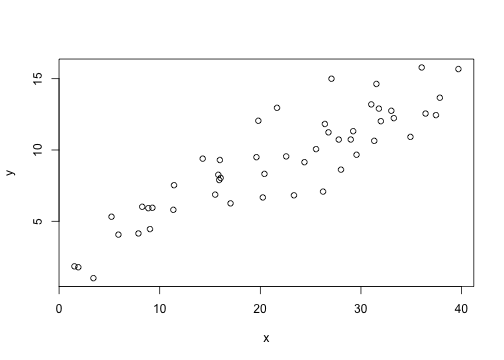
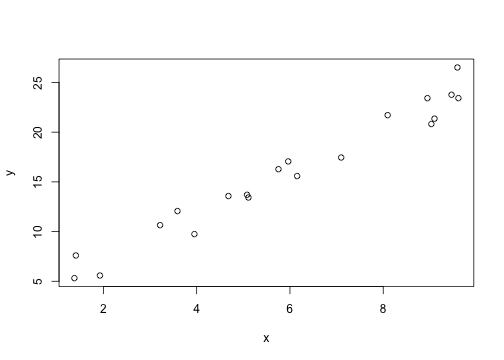
Tweak TMB post and publish it

diff --git a/_posts/2014-10-17-tmb.md b/_posts/2014-10-17-tmb.md
@@ -1,13 +1,13 @@
 ---
 layout: post
 title: The TMB R package
-subtitle: Life beyond ADMB
-published: false
+subtitle: Life beyond ADMB?
+published: true
 ---
 
-I'd heard whispers of this new R package [TMB](https://github.com/kaskr/adcomp) and finally spent some time playing with it in the last few days. It's incredible — fast like ADMB (faster?), has built-in parallel functionality, has other advanced [statistical niceties](https://github.com/kaskr/adcomp/wiki), and it's built around R. What more could you ask for? (Well better documenation and the option to switch on Bayesian MCMC like you can in ADMB would be nice.)
+I'd heard whispers of this new R package [TMB](https://github.com/kaskr/adcomp) and finally spent some time playing with it in the last few days. It's incredible — fast like ADMB (faster?), has built-in parallel functionality, has other advanced [statistical niceties](https://github.com/kaskr/adcomp/wiki), and it's built around R. What more could you ask for? (Well better documenation and the option to switch on Bayesian MCMC like you can in ADMB would be nice.) This post just represents some of my initial steps as I learned and played with the package.
 
-The basic idea is to write a C++ template file and then compile and run it with some R functions. If you've used ADMB then the format will look similar. If you haven't, it's not too hard to pick up. It helps to [know a bit about C++](http://adv-r.had.co.nz/Rcpp.html), but for the most part it shouldn't be that hard for anyone familiar with R to pick it up.
+The basic idea with TMB is to write a C++ template file and then compile and run it with some R functions. If you've used ADMB then the format will look similar. If you haven't, it's not too hard to pick up. It helps to [know a bit about C++](http://adv-r.had.co.nz/Rcpp.html), but for the most part it shouldn't be that hard for anyone familiar with R to pick it up.
 
 The steps to running a TMB model are:
 
@@ -28,9 +28,10 @@ The steps to running a TMB model are:
 6. Extract the estimates and standard errors from the model fit with 
    `TMB::sdreport()` and `TMB::summary.sdreport()`.
    
-You can install the TMB package from GitHub:
+You can install the TMB package from GitHub. You'll need a C++ compiler installed. If you're on Windows then you'll also need Rtools. See specific instructions on the [TMB GitHub page](https://github.com/kaskr/adcomp).
 
-```{r, eval=FALSE}
+
+```r
 # install.packages("devtools") # if needed
 devtools::install_github("kaskr/adcomp", subdir = "TMB")
 ```
@@ -43,7 +44,8 @@ Let's start with a really simple linear regression model.
 
 We'll start by writing the TMB template file. Here, I've written it as inline R code that I then `write()` to a `.cpp` file. I have only done this so the code shows up here.
 
-```{r tmb-regression}
+
+```r
 tmb_model <- "
 // linear regression
 #include <TMB.hpp>
@@ -79,7 +81,8 @@ write(tmb_model, file = "regression.cpp")
 
 We'll load the model template:
 
-```{r load, message=FALSE, results='hide'}
+
+```r
 library(TMB)
 compile("regression.cpp")
 dyn.load(dynlib("regression"))
@@ -87,16 +90,20 @@ dyn.load(dynlib("regression"))
 
 And simulate some data:
 
-```{r tmb1, fig.height=5}
-set.seed(1)
-x <- runif(50, 1, 40)
-y <- rnorm(50, mean = 2.5 + 0.3 * x, sd = exp(0.6))
+
+```r
+set.seed(123)
+x <- runif(20, 1, 10)
+y <- rnorm(20, mean = 1.8 + 2.4 * x, sd = exp(0.3))
 plot(x, y)
 ```
 
+![plot of chunk tmb1](/knitr-figs/tmb1.png) 
+
 Then we'll fit the model:
 
-```{r, message=FALSE, results='hide', warning=FALSE}
+
+```r
 obj <- MakeADFun(
   data = list(x = x, y = y), 
   parameters = list(a = 0, b = 0, log_sigma = 0),
@@ -105,16 +112,37 @@ opt <- do.call("optim", obj)
 rep <- sdreport(obj)
 ```
 
-We can check the estimates against the true values above (`a = 2.5, b = 0.3, log_sigma = 0.6`):
+We can check the estimates against the true values above (`a = 1.8, b = 2.4, log_sigma = 0.3`):
 
-```{r}
+
+```r
 rep
 ```
 
-Which is exactly the same as we'd get from `stats::lm()`:
+```
+#           Estimate Std. Error
+# a           2.8291    0.64964
+# b           2.2028    0.09901
+# log_sigma   0.1969    0.15811
+# 
+# Maximum gradient component: 2.797e-06
+```
 
-```{r lm}
+Which is about the same as we'd get from `stats::lm()`:
+
+
+```r
 arm::display(lm(y ~ x))
+```
+
+```
+# lm(formula = y ~ x)
+#             coef.est coef.se
+# (Intercept) 2.83     0.68   
+# x           2.20     0.10   
+# ---
+# n = 20, k = 2
+# residual sd = 1.28, R-Squared = 0.96
 ```
 
 ## Gompertz state space model
@@ -131,7 +159,8 @@ y\_t &amp;\sim \mathrm{Normal}(U\_t, \sigma^2\_\mathrm{obs}),
 where \\(y\_t\\) is the observed \\(\ln\\) abundance (\\(N\\)) at time \\(t\\). The model is density independent if \\(b = 1\\), maximally density dependent if \\(b = 0\\), and inversely density dependence if \\(b < 0\\). The parameter \\(a\\) represents the expected ln abundance at the next time step when \\(y\_t = 0\\). The process noise is modelled as a normal distribution with mean of \\(0\\), and a standard deviation of \\(\sigma\_\mathrm{proc}\\). \\(U\\) represents the unobserved state vector, and \\(\sigma\_\mathrm{obs}\\) represents the standard deviation of observation error (on a log scale).
 
 The TMB model for this state-space Gompertz model is:
-```{r tmb-model}
+
+```r
 tmb_model <- "
 // State-space Gompertz model
 #include <TMB.hpp>
@@ -178,14 +207,16 @@ write(tmb_model, file = "gompertztmb.cpp")
 
 We'll compile the model:
 
-```{r compile, message=FALSE, results='hide'}
+
+```r
 compile("gompertztmb.cpp")
 dyn.load(dynlib("gompertztmb"))
 ```
 
 And write a function that simulates some data, fits the model, and plots the estimates:
 
-```{r fitfunction}
+
+```r
 sim_gomp <- function(N = 100, seed = 123, sigma_obs = 0.2,
   sigma_proc = 0.2, a = 1.4, b = 0.7, y1 = 4) {
   
@@ -255,20 +286,29 @@ sim_gomp <- function(N = 100, seed = 123, sigma_obs = 0.2,
 
 One good test that you've coded a model correctly is to throw a boat-load of data at it and make sure it comes back with unbiased parameter estimates. In the following plots, the first panel shows the coefficient estimates ("fixed effects") +/- two standard errors. The red dots are our estimates and the shaded grey dots are the true values. In the lower panels, the red lines are our estimated states, the black line (hidden behind the red in the first plot) is the true underlying state, and the grey dots are our observations.
 
-```{r tmb-test1, results='hide', message=FALSE, warning=FALSE, fig.height=8}
-sim_gomp(N = 5000, sigma_obs = 0.1)
+
+```r
+sim_gomp(N = 5000, sigma_obs = 0.1, sigma_proc = 0.2, b = 0.7, a = 1.4)
 ```
+
+![plot of chunk tmb-test1](/knitr-figs/tmb-test1.png) 
 
 (We just modelled a 5000 time step state space model in a couple of seconds!)
 
 Now we can try a more realistic 50 data points:
 
-```{r tmb-short, results='hide', message=FALSE, warning=FALSE, fig.height=8}
+
+```r
 sim_gomp(N = 50)
 ```
 
+![plot of chunk tmb-short](/knitr-figs/tmb-short.png) 
+
 And with a different seed value but more data:
 
-```{r tmb-seed2, results='hide', message=FALSE, warning=FALSE, fig.height=8}
+
+```r
 sim_gomp(N = 100, seed = 999)
 ```
+
+![plot of chunk tmb-seed2](/knitr-figs/tmb-seed2.png) 
